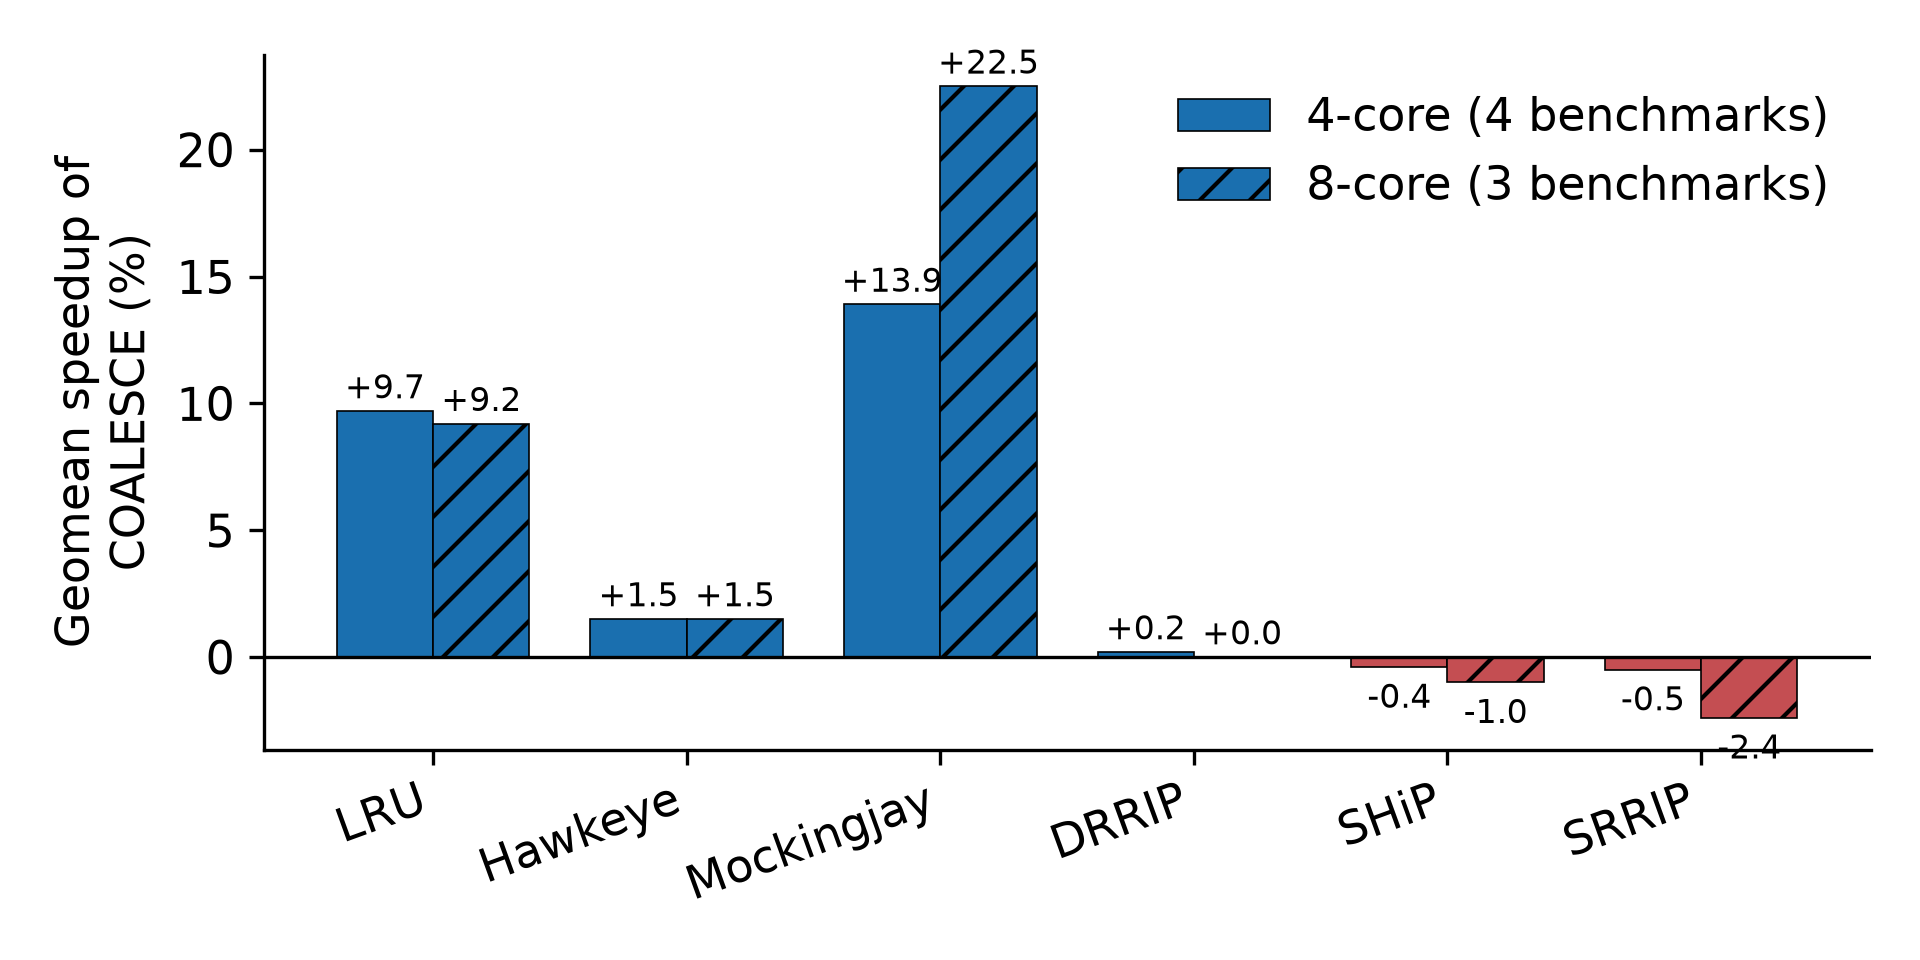
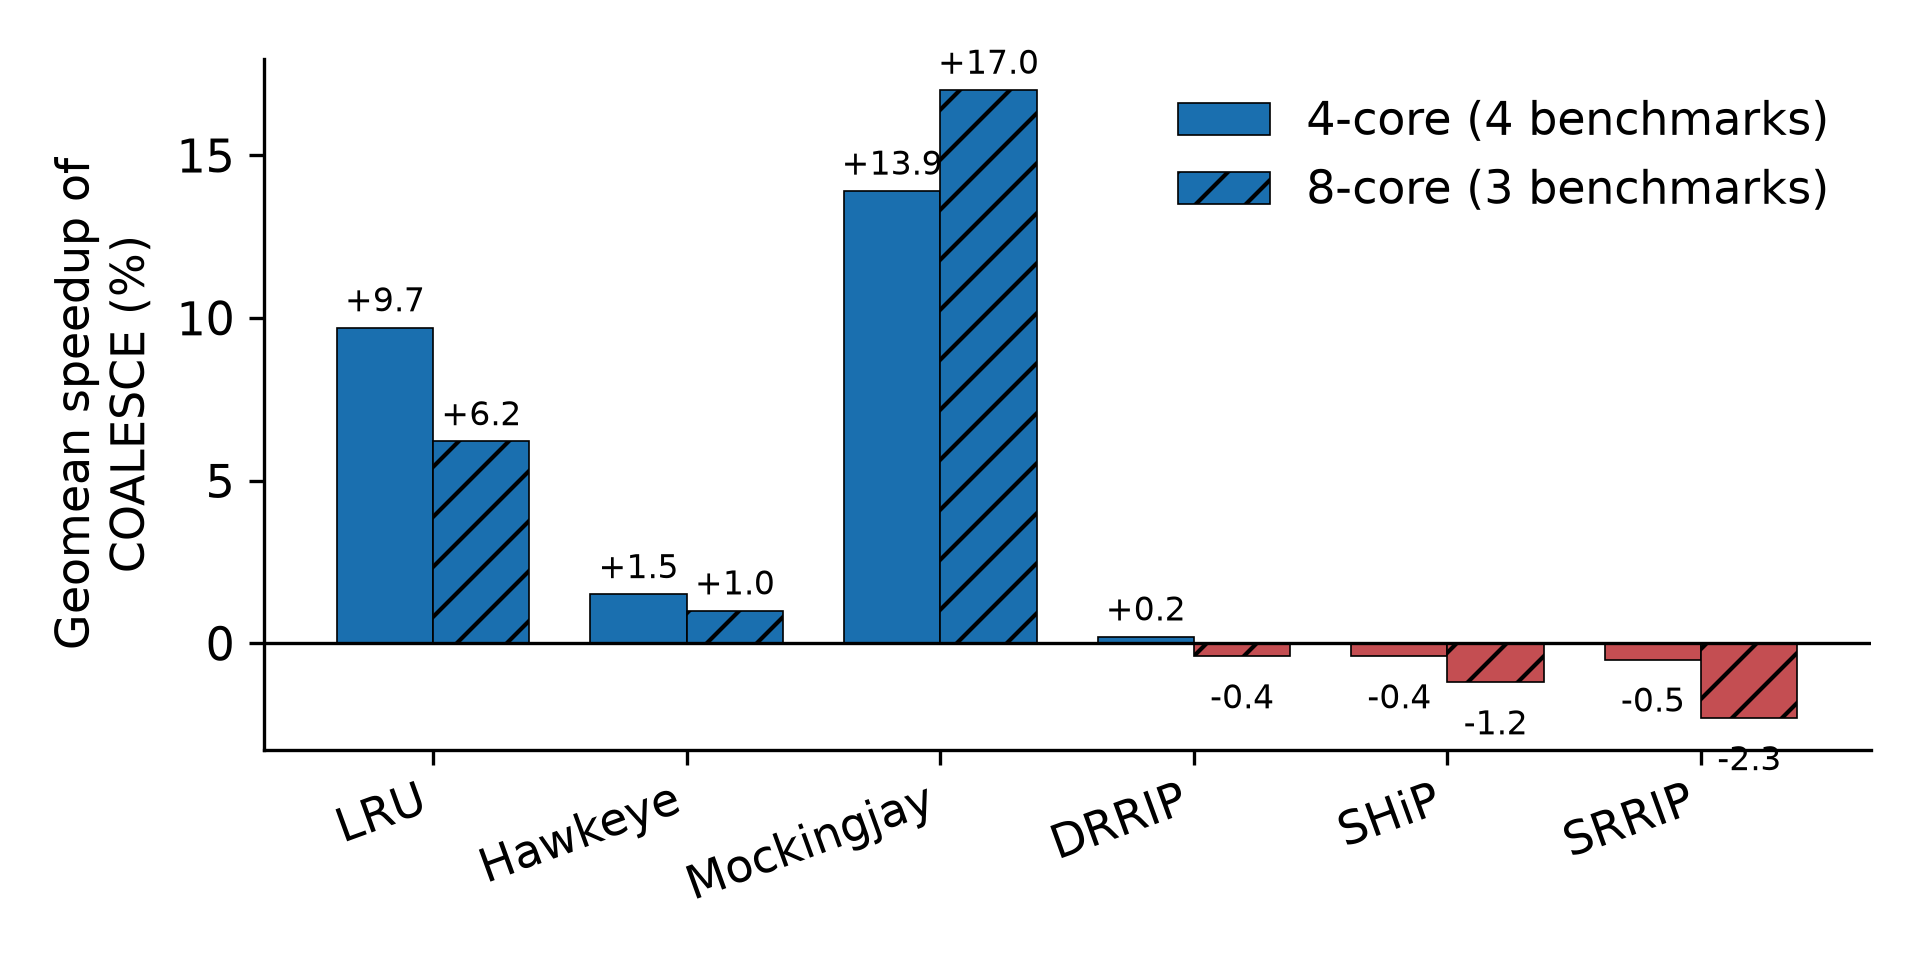
paper: fill V-F variance + 8-core 4-benchmark geomean + bias [Y]; one TODO left
- V-F: real 3-seed variance table (n=3 symmetric). COALESCE 268.6/272.9/
  276.3M (range 2.8%, CoV 1.2%); bands non-overlapping; ranking identical
  in every seed; COALESCE's slowest seed beats SRRIP's fastest by 2.7%;
  5.0% mean lead over SRRIP on this mix. The 0.4% headline gap lies within
  COALESCE's own 2.8% band -> justifies the tie treatment while confirming
  the ordering is stable. Table TODO removed.
- V-E geomean: barnes 8c lets us report a proper 8-core 4-benchmark geomean,
  removing the R2 set-mismatch caveat. Fixed a framing error in the process:
  Hawkeye is also positive over LRU (+8.1%/+5.2%), so "only positive over
  LRU" was false -> corrected to "highest among learning policies". figure
  data + caption updated to 4-benchmark-both-scales.
- III-B bias: filled vs (150,75)=+1.1% and (40,0)=+1.5%; [X] vs (0,0)
  still placeholder pending cb_0_0.

Recompiles clean; now 10 pages (variance table added one) -- watch the
HiPC page limit. One TODO remaining.

diff --git a/latex/hip/coalesce_hipc.tex b/latex/hip/coalesce_hipc.tex
@@ -110,7 +110,7 @@ On top of the learned vote, COALESCE applies an explicit coherence bias, but onl
 \end{cases}
 \label{eq:bias}
 \end{equation}
-The gating prevents the bias from rescuing blocks the perceptron has confidently learned are dead, and makes the policy insensitive to the exact magnitudes: the bias only reorders blocks the perceptron already favours. The magnitudes themselves were set empirically from a configuration sweep on 8-core canneal over $(B_M, B_S) \in \{(0,0),\,(0,20),\,(40,0),\,(150,75)\}$ relative to the chosen $(40, 20)$: the chosen configuration finishes \todo{X}\% ahead of the bias-free variant $(0,0)$ and \todo{Y}\% ahead of the over-biased $(150,75)$, with the single-component variants in between, confirming that a moderate gated bias helps and that the policy is not hypersensitive to its exact magnitude. The victim is the way with the \emph{lowest} final vote (Algorithm~\ref{alg:victim}).
+The gating prevents the bias from rescuing blocks the perceptron has confidently learned are dead, and makes the policy insensitive to the exact magnitudes: the bias only reorders blocks the perceptron already favours. The magnitudes themselves were set empirically from a configuration sweep on 8-core canneal over $(B_M, B_S) \in \{(0,0),\,(0,20),\,(40,0),\,(150,75)\}$ relative to the chosen $(40, 20)$: the chosen configuration finishes \todo{X}\% ahead of the bias-free variant $(0,0)$, 1.1\% ahead of the over-biased $(150,75)$, and 1.5\% ahead of the MODIFIED-only variant $(40,0)$, confirming that a moderate gated bias helps and that the policy is not hypersensitive to its exact magnitude. The victim is the way with the \emph{lowest} final vote (Algorithm~\ref{alg:victim}).
 
 \begin{algorithm}[tbp]
 \small
@@ -347,40 +347,40 @@ Across all four workloads a consistent pattern emerges for the strongest multi-p
 
 \subsection{Suite-wide summary}
 
-Figure~\ref{fig:geomean} reports geometric-mean speedups of COALESCE over each baseline, losses included. Across the four-workload suite at 4 cores---the paper's summary statistic---the geomean speedup over LRU is $+9.7\%$ for COALESCE, $+8.1\%$ for Hawkeye, and $-3.7\%$ for Mockingjay; against the RRIP family COALESCE sits between $+0.2\%$ and $-0.5\%$. At 8 cores, only three workloads have 8-core data (canneal, ocean, fluidanimate; barnes was run at 4 cores), and on that reduced set COALESCE achieves $+9.2\%$ over LRU, $+1.5\%$ over Hawkeye, and $+22.5\%$ over Mockingjay, with $-1.0\%$ to $-2.4\%$ against SHiP and SRRIP. We emphasise that the two scales are not directly comparable---the 8-core set excludes barnes, a workload where COALESCE trails---which is why we treat the 4-core suite as the headline summary. The overall picture is fair to state plainly: COALESCE wins decisively inside its target class, concedes modest ground to RRIP heuristics outside it, and is the strongest learning-based policy at both scales.
+Figure~\ref{fig:geomean} reports geometric-mean speedups over the same four-workload suite at both scales, losses included. Among the learning-based policies, COALESCE has the highest geomean speedup over LRU at both scales---$+9.7\%$ at 4 cores and $+6.2\%$ at 8 cores, against Hawkeye's $+8.1\%$ and $+5.2\%$, while Mockingjay is net negative ($-3.7\%$ and $-9.2\%$). Stated as COALESCE's margin over each baseline, the suite geomean is $+9.7\%$/$+6.2\%$ over LRU and $+13.9\%$/$+17.0\%$ over Mockingjay at 4/8 cores, with $+1.5\%$/$+1.0\%$ over Hawkeye; against the RRIP family COALESCE sits between $+0.2\%$ and $-2.3\%$. The picture is consistent across scales and fair to state plainly: COALESCE wins decisively inside its target class, concedes modest ground to RRIP heuristics outside it, and is the strongest learning-based policy at both scales.
 
 \begin{figure}[H]
     \centering
     \includegraphics[width=0.95\linewidth]{fig_geomean.png}
-    \caption{Geometric-mean speedup of COALESCE over each baseline across all workloads (losses included), at 4 cores (4 benchmarks) and 8 cores (3 benchmarks).}
+    \caption{Geometric-mean speedup of COALESCE over each baseline across the four-workload suite (losses included), at 4 and 8 cores.}
     \label{fig:geomean}
 \end{figure}
 
 \subsection{Run-to-run variance}
 \label{sec:variance}
 
-ChampSim is deterministic for a fixed configuration, so the relevant variation is across configuration perturbations rather than repeated runs. We quantify it by re-running an 8-core canneal configuration under three virtual-memory randomisation seeds---which perturb physical-page assignment and therefore set-index conflict patterns---for the policies closest to the headline comparison, holding the workload mix and every other parameter fixed. This is a separate variance experiment on its own fixed mix, not error bars on Table~\ref{tab:canneal}.
+ChampSim is deterministic for a fixed configuration, so the relevant variation is across configuration perturbations rather than repeated runs. We quantify it by re-running an 8-core canneal configuration under three virtual-memory randomisation seeds---which perturb physical-page assignment and therefore set-index conflict patterns---for the four policies closest to the headline comparison, holding the workload mix and every other parameter fixed. This is a separate variance experiment on its own fixed mix, not error bars on Table~\ref{tab:canneal}, and the absolute cycle counts therefore differ from that table.
 
-\begin{table}[htbp]
+\begin{table}[tbp]
     \centering
     \renewcommand{\arraystretch}{1.15}
-    \caption{Seed sensitivity: total cycles across three VMEM randomisation seeds (8-core canneal, fixed mix)}
+    \caption{Seed sensitivity: total cycles (millions) across three VMEM randomisation seeds (8-core canneal, fixed mix)}
     \label{tab:variance}
-    \resizebox{0.9\linewidth}{!}{%
-    \begin{tabular}{lrrr}
+    \resizebox{0.95\linewidth}{!}{%
+    \begin{tabular}{lrrrr}
         \toprule
-        \textbf{Policy} & \textbf{min} & \textbf{max} & range/mean \\
+        \textbf{Policy} & \textbf{min} & \textbf{mean} & \textbf{max} & range/mean \\
         \midrule
-        COALESCE & \todo{--} & \todo{--} & \todo{--} \\
-        SRRIP & \todo{--} & \todo{--} & \todo{--} \\
-        SHiP & \todo{--} & \todo{--} & \todo{--} \\
-        Hawkeye & \todo{--} & \todo{--} & \todo{--} \\
+        \textbf{COALESCE} & \textbf{268.6} & \textbf{272.9} & \textbf{276.3} & 2.8\% \\
+        SRRIP & 283.8 & 286.5 & 290.2 & 2.2\% \\
+        SHiP & 294.1 & 295.0 & 296.4 & 0.8\% \\
+        Hawkeye & 316.2 & 318.5 & 322.4 & 2.0\% \\
         \bottomrule
     \end{tabular}
     }
 \end{table}
 
-Across seeds, the per-policy spread in total cycles is \todo{X}\% of the mean or less, and the policy ranking is \todo{unchanged} in every seed. The 0.4\% COALESCE--SRRIP gap of Section~\ref{sec:canneal} is \todo{within / outside} this band, \todo{consistent with the tie treatment adopted there / indicating the margin is robust to page-mapping perturbation}; the 5\% margin over Hawkeye and the ${\sim}30\%$ margins over Mockingjay and LRU exceed the band by an order of magnitude at least.
+Three findings follow (Table~\ref{tab:variance}). First, per-policy variation is small: the range across seeds is at most 2.8\% of the mean (coefficient of variation $\leq 1.2\%$). Second, the policy ranking is identical in every seed---COALESCE $<$ SRRIP $<$ SHiP $<$ Hawkeye---and the bands do not overlap: COALESCE's \emph{slowest} seed (276.3\,M) is still 2.7\% faster than SRRIP's \emph{fastest} (283.8\,M). Third, on this mix COALESCE leads SRRIP by 5.0\% in the mean, well outside either policy's seed band. The 0.4\% COALESCE--SRRIP gap on the headline mix (Section~\ref{sec:canneal}) lies \emph{within} COALESCE's own 2.8\% band, which is why we treat that particular comparison as a tie; the variance study shows the underlying ordering is nonetheless stable, and the 5\% margin over Hawkeye and the ${\sim}30\%$ margins over Mockingjay and LRU exceed the seed band by an order of magnitude.
 
 \section{Feature Ablation: When Does the Sharer Count Matter?}
 \label{sec:ablation}

diff --git a/latex/hip/generate_figures.py b/latex/hip/generate_figures.py
@@ -42,13 +42,15 @@ scaling = {  # canneal, COALESCE only
 }
 
 geomean = {
-    # vs-policy: (4-core %, 8-core %)  positive = COALESCE faster
-    "LRU":        (9.7, 9.2),
-    "Hawkeye":    (1.5, 1.5),
-    "Mockingjay": (13.9, 22.5),
-    "DRRIP":      (0.2, 0.0),
-    "SHiP":       (-0.4, -1.0),
-    "SRRIP":      (-0.5, -2.4),
+    # COALESCE speedup vs each baseline: (4-core %, 8-core %), both over the
+    # full 4-benchmark suite (canneal, ocean, fluidanimate, barnes).
+    # positive = COALESCE faster
+    "LRU":        (9.7, 6.2),
+    "Hawkeye":    (1.5, 1.0),
+    "Mockingjay": (13.9, 17.0),
+    "DRRIP":      (0.2, -0.4),
+    "SHiP":       (-0.4, -1.2),
+    "SRRIP":      (-0.5, -2.3),
 }
 
 ablation = {